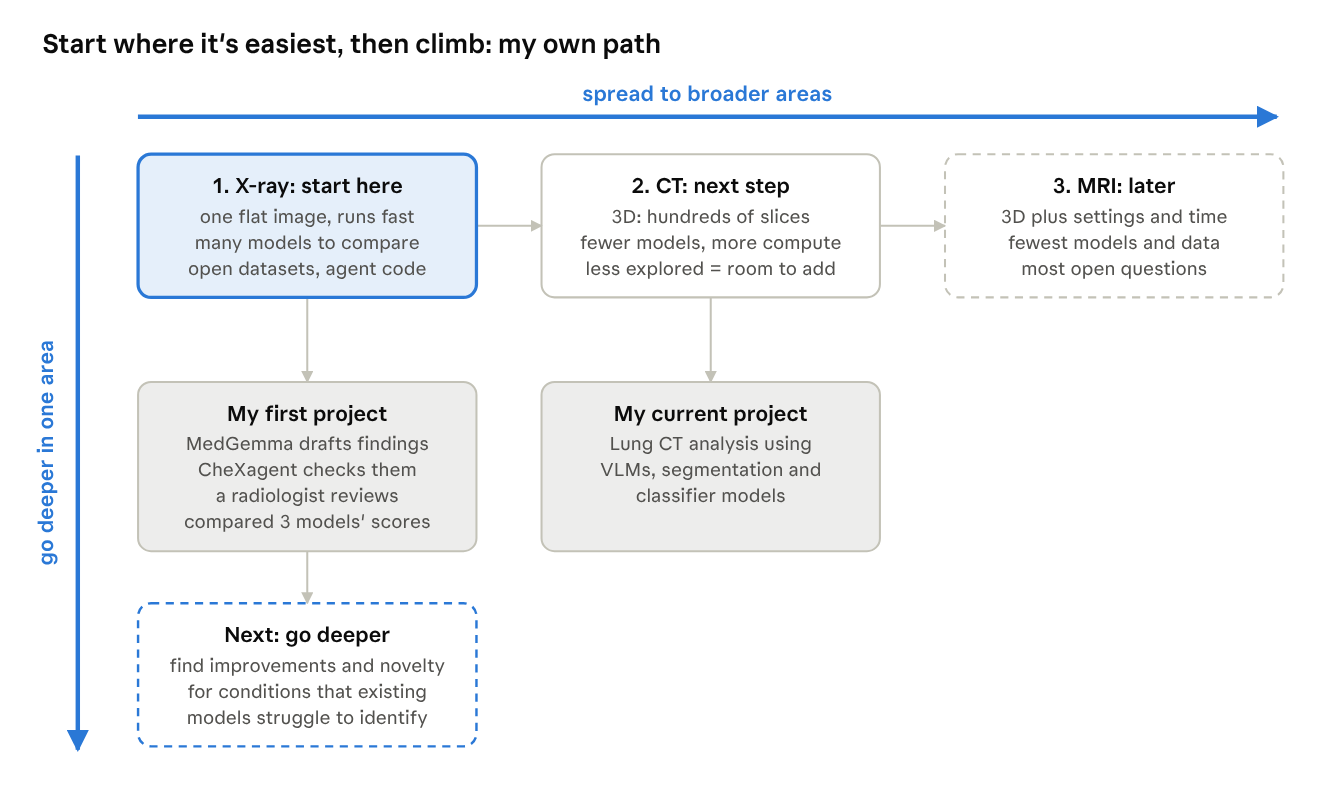
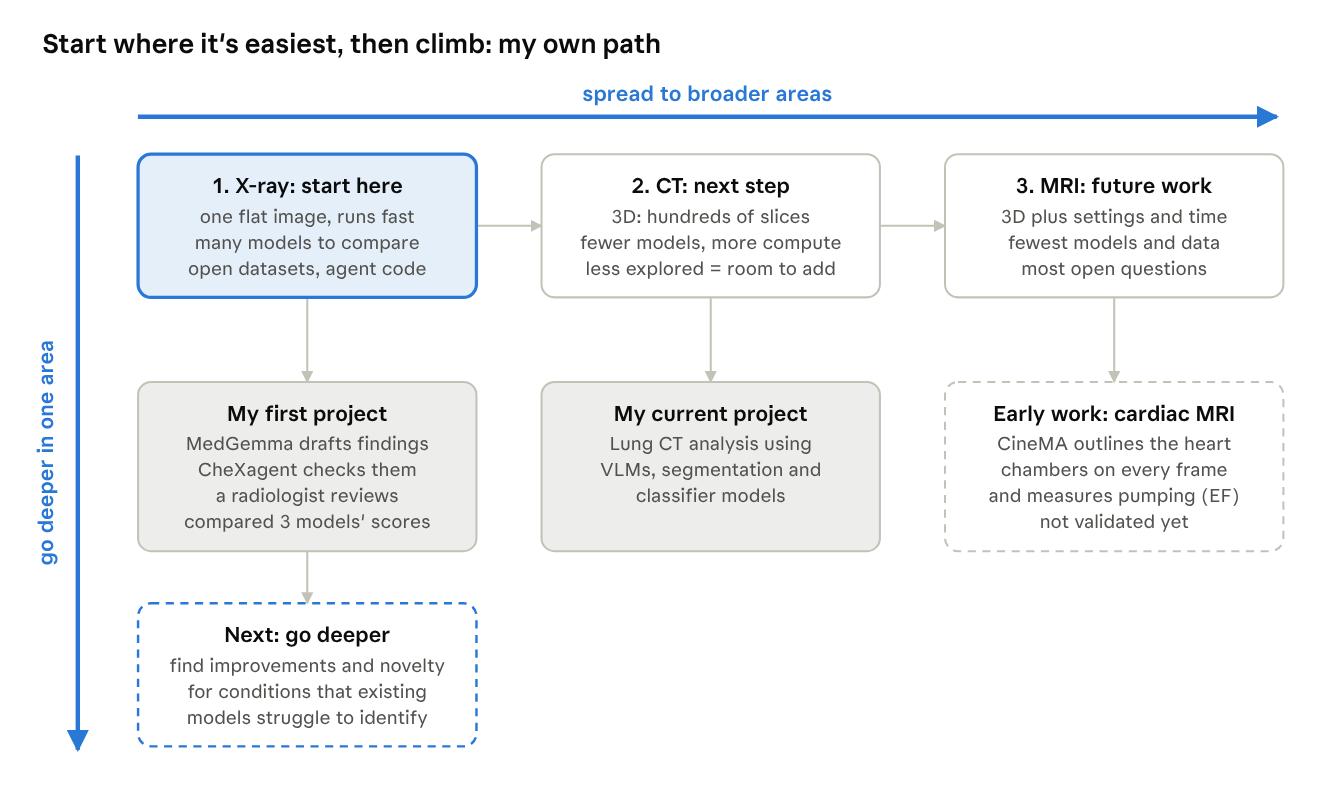
Add early cardiac MRI work to My path
Claude-Session: https://claude.ai/code/session_01EnVsTeAymFW5udjhv2AJ2k

Changed region(s): [[0.7188, 0.4988, 0.9375, 0.6546], [0.75, 0.2182, 0.9062, 0.2494]]

diff --git a/presentation/index.html b/presentation/index.html
@@ -157,9 +157,10 @@
   </section>
   <section>
     <h2>My path: start easy, go deep, then broaden</h2>
-    <img class="diagram tall" src="../docs/images/04-my-path.png" alt="X-ray first, then CT, then MRI; my first project on X-ray, my current project on lung CT">
+    <img class="diagram tall" src="../docs/images/04-my-path.png" alt="X-ray first, then CT, then MRI; my first project on X-ray, my current project on lung CT, early work on cardiac MRI">
     <aside class="notes">
       If you're new, start with chest X-ray: one flat image, runs fast on a free GPU, lots of models and open data. That's what I did. Then I moved to lung CT, which is harder and less explored.
+      And I've made an early start on MRI: a local pipeline using CineMA, a published cardiac MRI model, that outlines the heart's chambers on every frame and measures ejection fraction, how much blood the heart pumps out per beat. On one hospital case the left ventricle looked consistent across three model versions, but the right ventricle isn't usable yet, and with no expert outlines we can't measure accuracy. Agreement between models is not proof they're right.
       Two honest cautions: start with fully open data, because MIMIC-CXR needs an ethics course and approval. And chest X-ray is the most crowded area, so it's great for learning but hard to stand out in. Go deep in one area before spreading out.
     </aside>
   </section>

diff --git a/docs/guide.md b/docs/guide.md
@@ -80,6 +80,13 @@ Two honest cautions:
 
 The X-ray project taught me the basics, which made the jump to 3D CT much easier.
 
+**Future work, early start: cardiac MRI.** I've begun on MRI with a local pipeline that outlines the heart's chambers on cardiac MRI "movies" (cine MRI) and measures how well the heart pumps. It's early research, and nothing here is clinically validated. Note that [CineMA](https://github.com/mathpluscode/CineMA), the model it uses, is an image model that outlines and measures, not a VLM.
+
+- **What I built:** a setup around CineMA, a published AI model for cardiac MRI, running on a local computer in its own isolated environment, so no patient data leaves the machine. The pipeline reads the scanner files, finds the short-axis series (the stack of cross-section slices), outlines the left ventricle, right ventricle and heart muscle on every frame, calculates volumes and ejection fraction (EF, the share of blood pumped out per beat), and makes side-by-side videos. 24 automated tests check the geometry and volume math on shapes with known answers; all pass.
+- **What I ran:** a public sample to confirm the setup works, then an inventory of 11 hospital cases (about 18,700 image files). A likely short-axis series turned up in each case, though three still need confirming. One case went end to end with three versions of the model.
+- **What it showed:** for the left ventricle, the three versions agreed closely (EF 63–65%, about 112–116 ml when full), and spot-checked outlines looked reasonable. For the right ventricle, they disagreed on the top slice near the valves, which swung EF between 52% and 65%, so it isn't usable yet.
+- **The honest limit:** no accuracy was measured. This case has no expert outlines, and models agreeing with each other is not proof that they're right.
+
 **Step 0: build a small test set first.** Collect 50 to 200 of *your* images with the correct answers, and decide how you'll score them (accuracy, or how many findings the report gets right). Every step below gets judged on this same test, so you can tell whether a change actually helped.
 
 Then climb the ladder below, and only move up a rung if the one below doesn't score well enough on your test:
